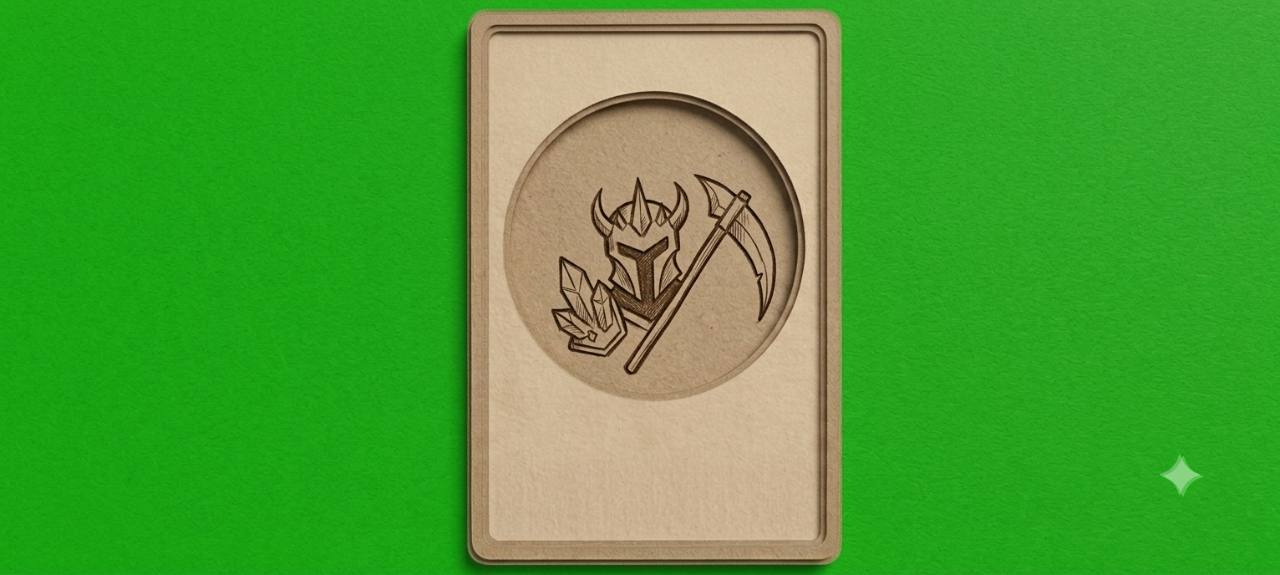
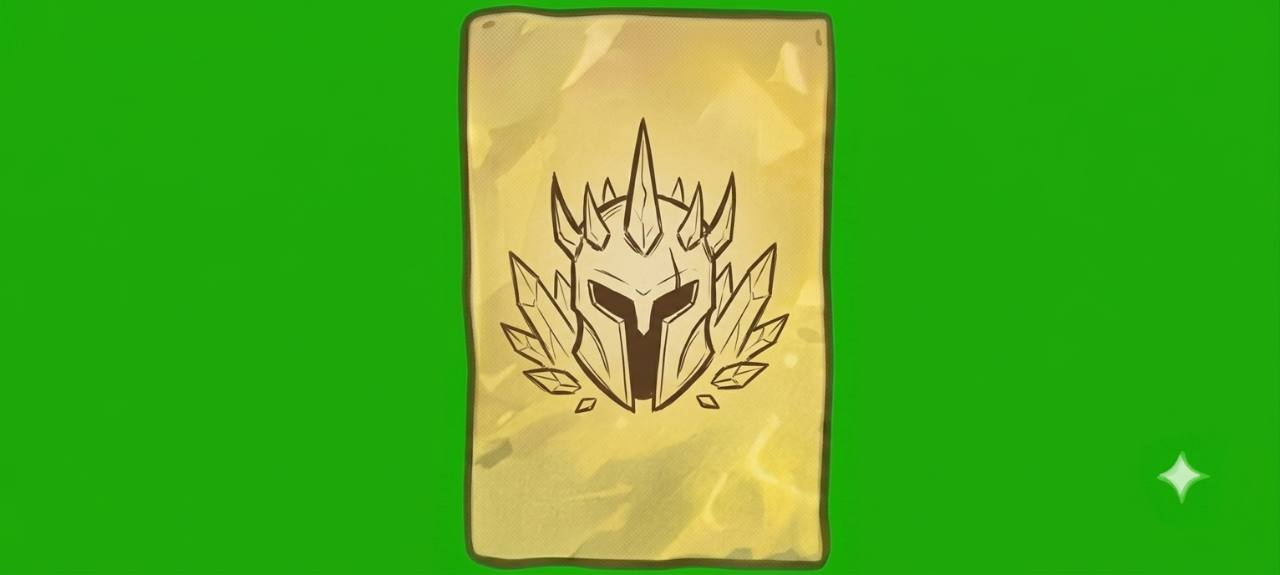
Update deployed battle card artwork

diff --git a/test_v2_auto_battle.js b/test_v2_auto_battle.js
@@ -130,7 +130,7 @@ for (const slug of ["death-knight", "skeleton-spear", "ghoul", "ancient-treant",
   }
 }
 
-assert(worker.includes('necromancer-expedition-v215'), "Service worker cache version was not advanced.");
+assert(worker.includes('necromancer-expedition-v216'), "Service worker cache version was not advanced.");
 assert(worker.includes("v2-auto-battle-practice.html"), "Auto battle page is not cached.");
 assert(worker.includes("v2-auto-battle-practice.css?v=47"), "Turn dice, lineup picker and illustrated unit info styling is not cached.");
 assert(worker.includes("v2-auto-battle-practice.js?v=57") && worker.includes("v2-legions.js?v=3") && worker.includes("v2-battle-brands.js?v=3"), "Turn-based status battle logic is not cached.");
@@ -138,7 +138,7 @@ assert(source.includes('serviceWorker.register("./service-worker.js", { updateVi
 assert(worker.includes('new Request(event.request, { cache: "reload" })'), "Navigation must bypass stale browser HTTP cache before updating the offline copy.");
 assert(worker.includes("art/v2-style/ui/freeze-status-label.png"), "Persistent freeze label is not cached.");
 assert(worker.includes("v2-damage-digits.js?v=4") && worker.includes("art/v2-style/ui/healing-digits-sheet.jpg"), "Healing digit art is not cached.");
-assert(worker.includes("v2-unit-cards.js?v=12"), "Summoned-unit card mapping is not cached.");
+assert(worker.includes("v2-unit-cards.js?v=13"), "Summoned-unit card mapping is not cached.");
 for (const slug of ["goblin-commoner","guardian-seed","spiderling"]) assert(worker.includes(`art/v2-style/ui/unit-card-${slug}.jpg`), `Summoned ${slug} card art is not cached.`);
 assert(worker.includes("art/v2-style/ui/legion-slot-frame.png"), "The cropped one-cell legion frame is not cached.");
 assert(fs.existsSync(path.join(root, "art/v2-style/ui/corpse-selection-arrow.png")) && worker.includes("art/v2-style/ui/corpse-selection-arrow.png"), "The corpse-selection arrow asset must be stored and cached.");

diff --git a/v2-unit-cards.js b/v2-unit-cards.js
@@ -1,5 +1,5 @@
 (function(root) {
-  const ART = ['minotaur','ice-lord','plague-frog','orc-warrior','plague-doctor','ghoul','goblin-chief','goblin-soldier','sea-wolf','grave-priest','abyss-eye','doom-executor','death-knight','hell-mantis','scorpion-knight','ancient-treant','stone-golem','kraken','crystal-devourer','skeleton-spear','skeleton-archer','skeleton-cavalry','spider-knight','raging-treant','cerberus','mushroom-soldier','goblin-rider','abyss-harpy','boulder-ogre','bone-golem','forest-fairy','flesh-golem','hydra','ice-princess'];
+  const ART = ['corpse-slime','minotaur','ice-lord','plague-frog','orc-warrior','plague-doctor','ghoul','goblin-chief','goblin-soldier','sea-wolf','grave-priest','abyss-eye','doom-executor','death-knight','hell-mantis','scorpion-knight','ancient-treant','stone-golem','kraken','crystal-devourer','skeleton-spear','skeleton-archer','skeleton-cavalry','spider-knight','raging-treant','cerberus','mushroom-soldier','goblin-rider','abyss-harpy','boulder-ogre','bone-golem','forest-fairy','flesh-golem','hydra','ice-princess'];
   ART.push('mimic','bone-hound','soul-reaper','siren','grave-worm','yeti','goblin-commoner','guardian-seed','spiderling');
   let selected;
   let phase = 'locked', currentUnits = [], currentDock;
@@ -40,7 +40,7 @@
         if (ART.includes(unit.slug)) {
           // Crop the supplied 1280x575 photo to the card only, without changing the original.
           art.classList.add('has-card-art');
-          art.style.backgroundImage = 'url("art/v2-style/ui/unit-card-' + unit.slug + '.jpg?v=8")';
+          art.style.backgroundImage = 'url("art/v2-style/ui/unit-card-' + unit.slug + '.jpg?v=9")';
         } else {
           const image = document.createElement('img'); image.src = unit.portrait; image.alt = '';
           art.append(image);

diff --git a/test_v2_motion.js b/test_v2_motion.js
@@ -445,7 +445,7 @@ assert(fs.existsSync(path.join(root, "art/v2-style/animation-sheets/green-raw/cr
 assert(fs.existsSync(path.join(root, "art/v2-style/animation-sheets/green-raw/grave-worm-animation-sheet.jpg")), "New raw Grave Worm sheet is missing.");
 assert(fs.existsSync(path.join(root, "art/v2-style/animation-sheets/green-raw/siren-animation-sheet.jpg")), "New raw Siren sheet is missing.");
 assert(fs.existsSync(path.join(root, "art/v2-style/animation-sheets/green-raw/mimic-animation-sheet.jpg")), "New raw Mimic sheet is missing.");
-assert(serviceWorker.includes("necromancer-expedition-v215"), "Service worker cache version was not bumped.");
+assert(serviceWorker.includes("necromancer-expedition-v216"), "Service worker cache version was not bumped.");
 for (const slug of ['ancient-treant','skeleton-spear','stone-golem','goblin-rider']) {
   for (const [motion,count] of Object.entries({attack:5,hit:4,death:slug === 'ancient-treant' ? 6 : 5})) {
     for(let i=1;i<=count;i++) {

diff --git a/test_v2_unit_cards.js b/test_v2_unit_cards.js
@@ -2,6 +2,10 @@ const assert = require('assert');
 function node() { return { children:[],dataset:{},style:{},classList:{add(){},toggle(){}},setAttribute(){},append(...v){this.children.push(...v)},replaceChildren(){this.children=[]},addEventListener(t,f){this[t]=f},querySelector(){return this.children[0]} }; }
 global.document = {createElement:node};
 const api = require('./v2-unit-cards');
+for (const slug of ['corpse-slime','minotaur','plague-frog','ice-lord','yeti']) {
+  assert(api.ART.includes(slug));
+  assert(require('fs').existsSync(require('path').join(__dirname, 'art/v2-style/ui/unit-card-' + slug + '.jpg')));
+}
 assert(api.ART.includes('ghoul'));
 assert(api.ART.includes('goblin-chief'));
 for (const slug of ['bone-golem','forest-fairy','flesh-golem','hydra','ice-princess']) {

diff --git a/service-worker.js b/service-worker.js
@@ -1,4 +1,4 @@
-const CACHE_NAME = "necromancer-expedition-v215";
+const CACHE_NAME = "necromancer-expedition-v216";
 const APP_SHELL = [
   "./",
   "./index.html",
@@ -57,7 +57,7 @@ const APP_SHELL = [
   "./v2-damage-digits.js?v=4",
   "./art/v2-style/ui/healing-digits-sheet.jpg",
   "./v2-unit-size.js?v=5",
-  "./v2-unit-cards.js?v=12",
+  "./v2-unit-cards.js?v=13",
   "./art/v2-style/ui/unit-card-goblin-commoner.jpg",
   "./art/v2-style/ui/unit-card-guardian-seed.jpg",
   "./art/v2-style/ui/unit-card-spiderling.jpg",

diff --git a/v2-auto-battle-practice.html b/v2-auto-battle-practice.html
@@ -147,7 +147,7 @@
   <script src="v2-combat-effects.js?v=9"></script>
   <script src="v2-damage-digits.js?v=4"></script>
   <script src="v2-unit-size.js?v=5"></script>
-  <script src="v2-unit-cards.js?v=12"></script>
+  <script src="v2-unit-cards.js?v=13"></script>
   <script src="v2-auto-battle-practice.js?v=57"></script>
 </body>
 </html>
